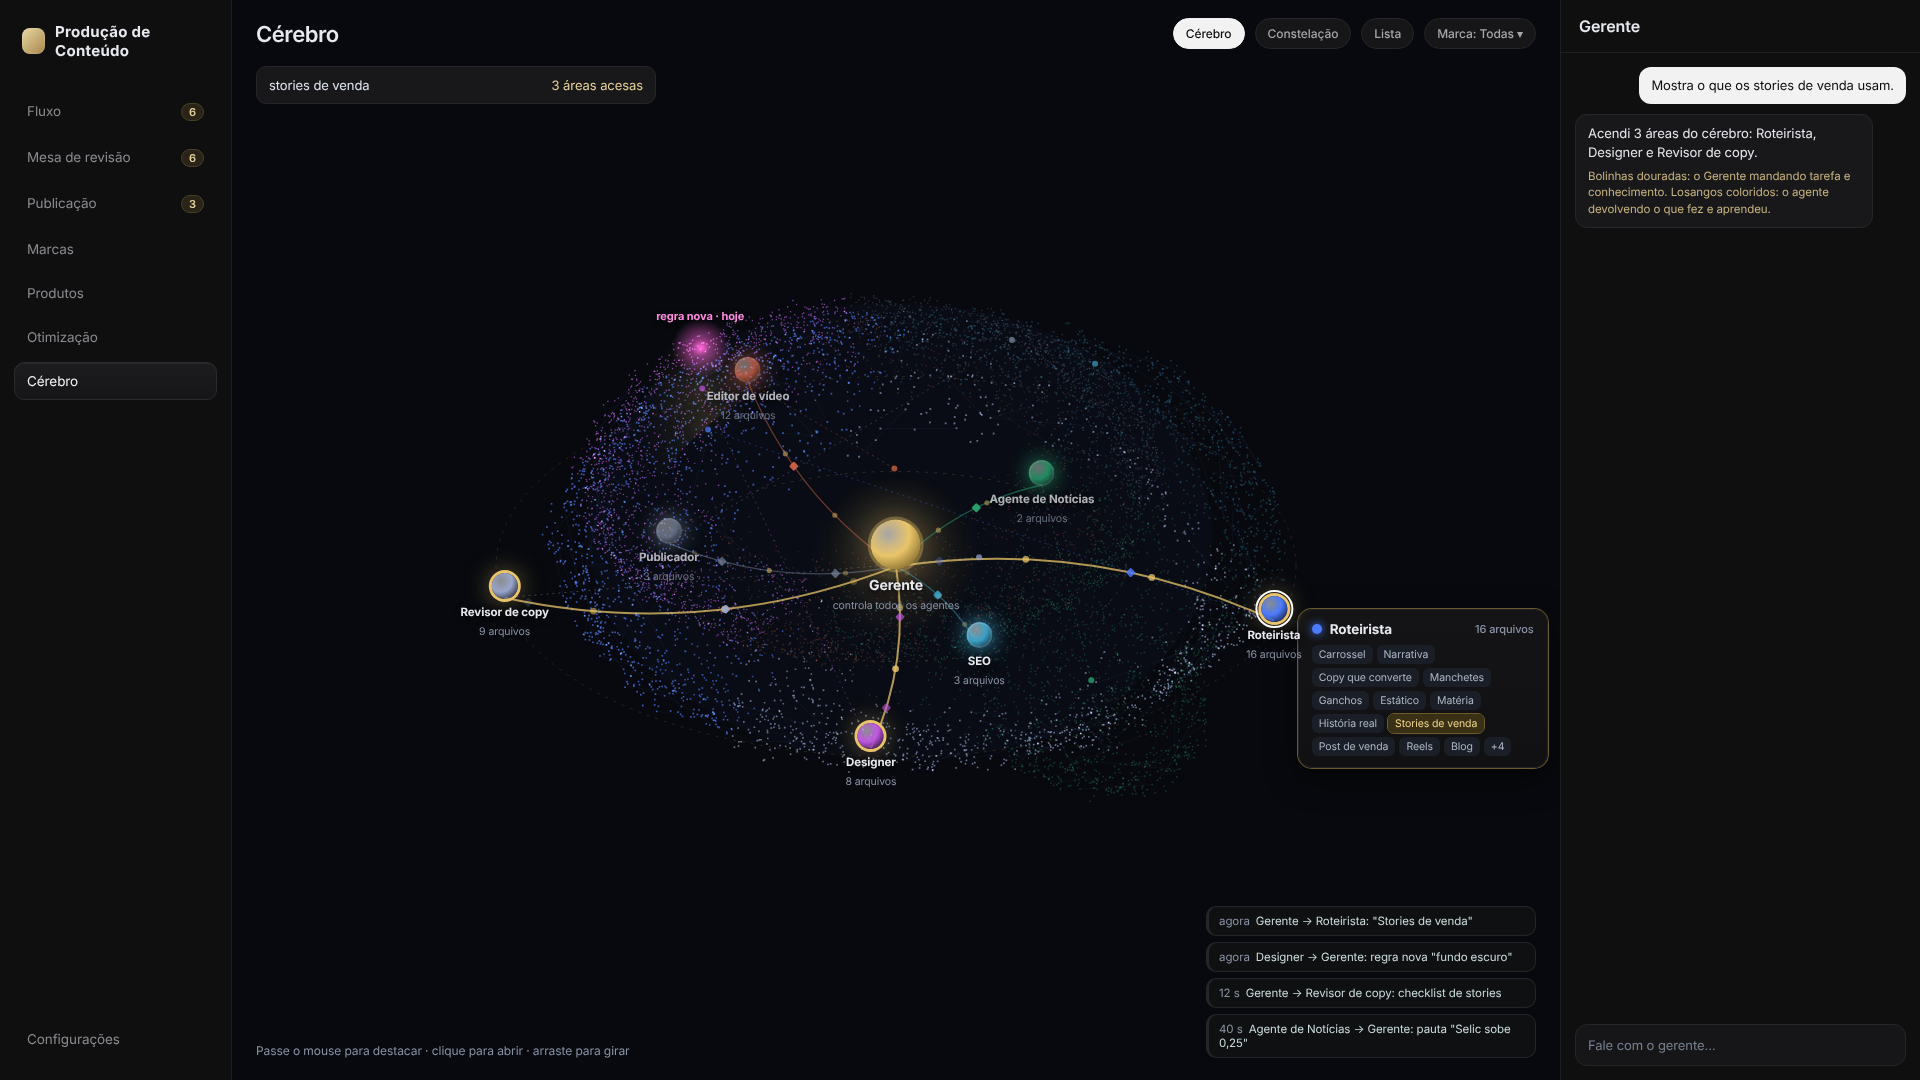
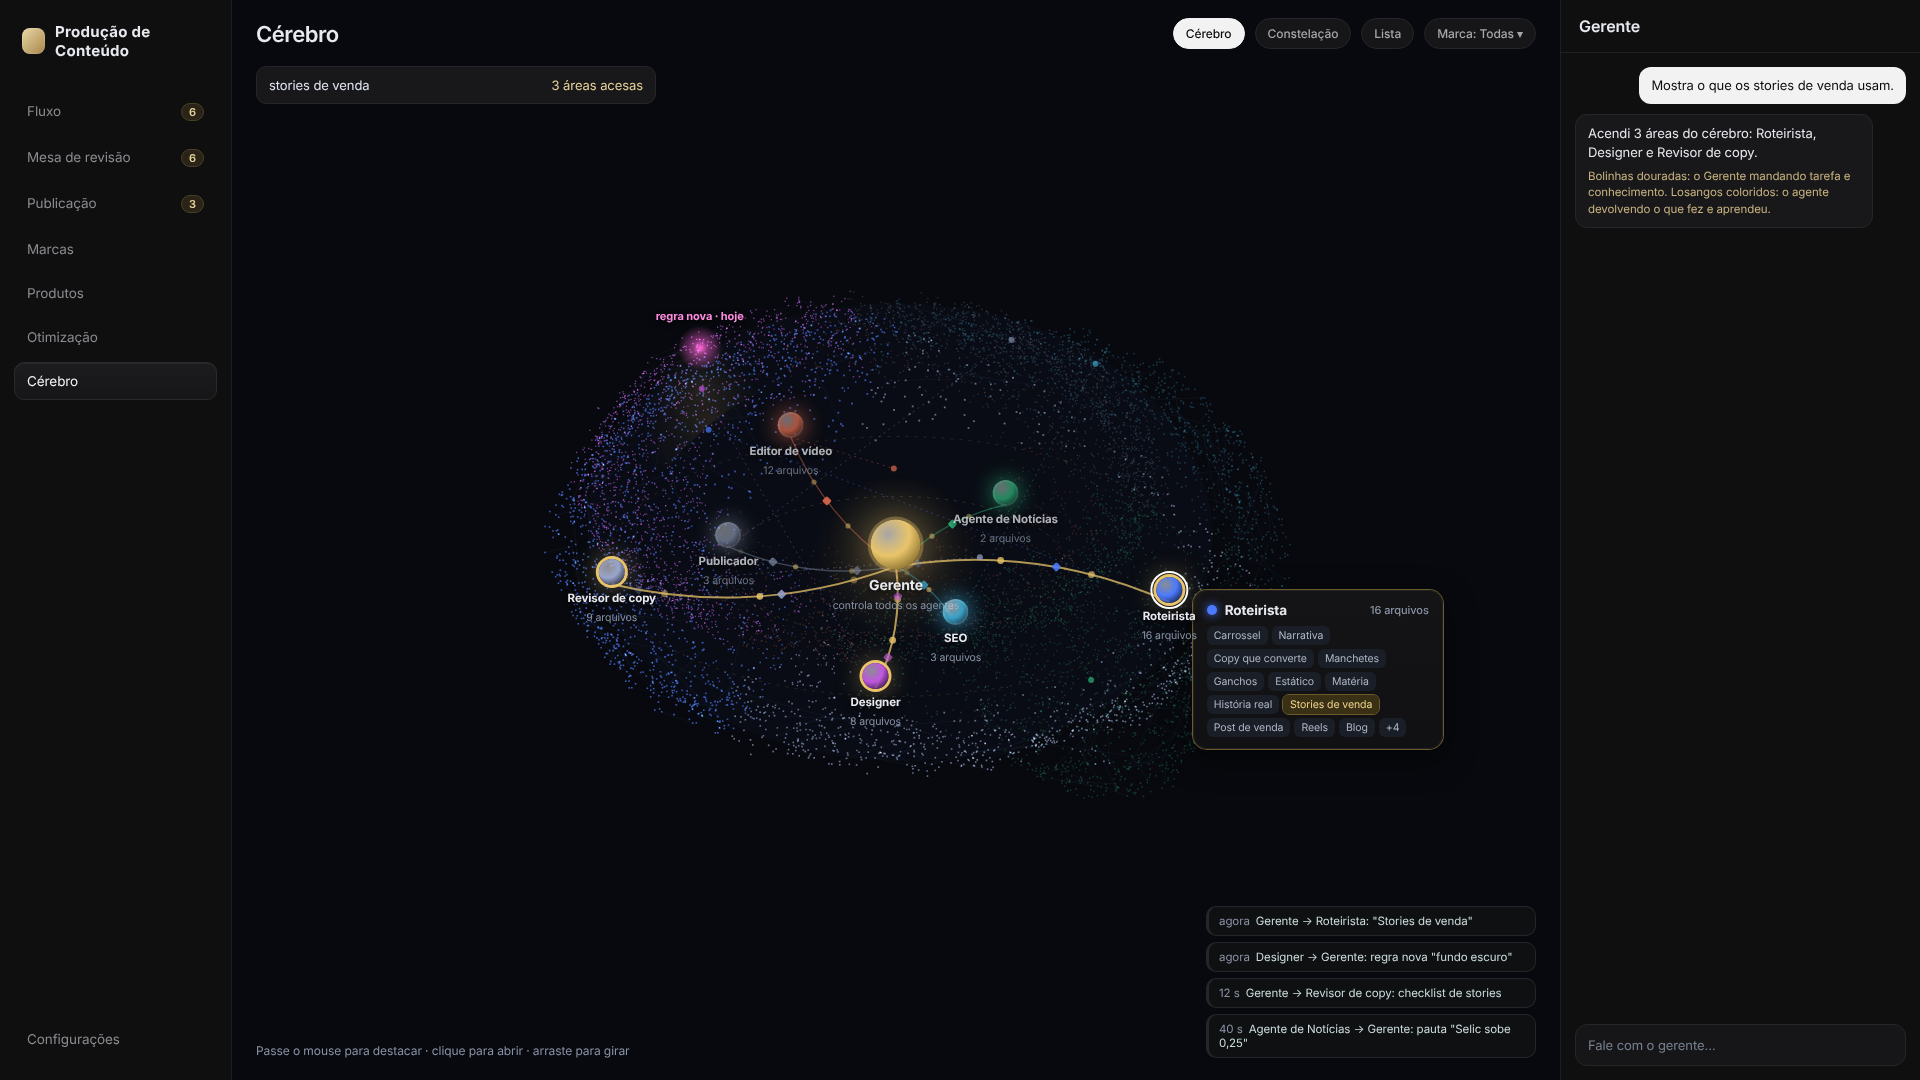
Mockup: órbitas do cérebro dentro do contorno
Claude-Session: https://claude.ai/code/session_017mkQW85rJCmU6p9tbJQqBr

Changed region(s): [[0.25, 0.275, 0.7812, 0.7333], [0.7812, 0.5806, 0.8125, 0.6111]]

diff --git a/mockup/final/10-cerebro.html b/mockup/final/10-cerebro.html
@@ -149,7 +149,7 @@ function frame(t){t/=1000;window.t=t;root.rotation.y=Math.PI/2+Math.sin(t*.15)*.
  rings.forEach(q=>{const u=(t*.6+q.o)%1;q.r.scale.setScalar(1+u*2.2);q.r.material.opacity=(1-u)*.5;q.r.lookAt(cam.position.clone().applyMatrix4(new THREE.Matrix4().copy(root.matrixWorld).invert()))});rule.scale.setScalar(1.6+Math.sin(t*5)*.7);core.material.opacity=.28+Math.sin(t*2)*.06;pm.size=.11+Math.sin(t*1.5)*.01;
  R.render(S,cam);const ORB={'Roteirista':[0,1],'Designer':[1.3,1],'Revisor de copy':[2.6,1],'Editor de vídeo':[4.0,1],'SEO':[.7,0],'Publicador':[2.8,0],'Agente de Notícias':[4.9,0]};
 let sv='';v.copy(core.position).applyMatrix4(root.matrixWorld).project(cam);const gx=(v.x+1)/2*W,gy=(1-v.y)/2*H+10;const go=document.getElementById('gorb');go.style.left=gx+'px';go.style.top=gy+'px';
-const RX=[230,400],RY=[95,190];sv+=`<ellipse cx='${gx}' cy='${gy}' rx='${RX[0]}' ry='${RY[0]}' fill='none' stroke='#e9c46a' stroke-opacity='.18' stroke-dasharray='3 6'/><ellipse cx='${gx}' cy='${gy}' rx='${RX[1]}' ry='${RY[1]}' fill='none' stroke='#e9c46a' stroke-opacity='.14' stroke-dasharray='3 6'/>`;
+const RX=[170,290],RY=[70,130];sv+=`<ellipse cx='${gx}' cy='${gy}' rx='${RX[0]}' ry='${RY[0]}' fill='none' stroke='#e9c46a' stroke-opacity='.18' stroke-dasharray='3 6'/><ellipse cx='${gx}' cy='${gy}' rx='${RX[1]}' ry='${RY[1]}' fill='none' stroke='#e9c46a' stroke-opacity='.14' stroke-dasharray='3 6'/>`;
 for(const n in ORB){const [ph,ring]=ORB[n];const a=ph+t*(ring?.06:.09);OPOS[n]=[gx+Math.cos(a)*RX[ring],gy+Math.sin(a)*RY[ring]];const o=OR[n];o.style.left=OPOS[n][0]+'px';o.style.top=OPOS[n][1]+'px';o.style.zIndex=Math.sin(a)>0?4:2;o.style.opacity=Math.sin(a)>0?1:.75}regions.forEach((r,i)=>{v.copy(ctr[i]).applyMatrix4(root.matrixWorld).project(cam);const x=(v.x+1)/2*W,y=(1-v.y)/2*H;const cx=OPOS[r.n][0],cy=OPOS[r.n][1]-8;const hot=!!HOTF[r.n];const col=hot?'#e9c46a':`rgba(${r.c.map(x=>x*255|0)},.55)`;const cc=`rgb(${r.c.map(x=>x*255|0)})`;
 sv+=`<path d='M${cx},${cy} L${x},${y}' stroke='${cc}' stroke-width='.8' stroke-dasharray='2 4' opacity='.45'/><circle cx='${x}' cy='${y}' r='3' fill='${cc}' opacity='.7'/>`;
 const mx=(cx+gx)/2+(cy-gy)*.15,my=(cy+gy)/2-(cx-gx)*.15;const P=u=>{const a=1-u;return[a*a*gx+2*a*u*mx+u*u*cx,a*a*gy+2*a*u*my+u*u*cy]};

diff --git a/mockup/v3/cerebro-solar.html b/mockup/v3/cerebro-solar.html
@@ -89,7 +89,7 @@ function frame(t){t/=1000;window.t=t;root.rotation.y=Math.PI/2+Math.sin(t*.15)*.
  rings.forEach(q=>{const u=(t*.6+q.o)%1;q.r.scale.setScalar(1+u*2.2);q.r.material.opacity=(1-u)*.5;q.r.lookAt(cam.position.clone().applyMatrix4(new THREE.Matrix4().copy(root.matrixWorld).invert()))});rule.scale.setScalar(1.6+Math.sin(t*5)*.7);core.material.opacity=.28+Math.sin(t*2)*.06;pm.size=.11+Math.sin(t*1.5)*.01;
  R.render(S,cam);const ORB={'Roteirista':[0,1],'Designer':[1.3,1],'Revisor de copy':[2.6,1],'Editor de vídeo':[4.0,1],'SEO':[.7,0],'Publicador':[2.8,0],'Agente de Notícias':[4.9,0]};
 let sv='';v.copy(core.position).applyMatrix4(root.matrixWorld).project(cam);const gx=(v.x+1)/2*W,gy=(1-v.y)/2*H+10;const go=document.getElementById('gorb');go.style.left=gx+'px';go.style.top=gy+'px';
-const RX=[230,400],RY=[95,190];sv+=`<ellipse cx='${gx}' cy='${gy}' rx='${RX[0]}' ry='${RY[0]}' fill='none' stroke='#e9c46a' stroke-opacity='.18' stroke-dasharray='3 6'/><ellipse cx='${gx}' cy='${gy}' rx='${RX[1]}' ry='${RY[1]}' fill='none' stroke='#e9c46a' stroke-opacity='.14' stroke-dasharray='3 6'/>`;
+const RX=[170,290],RY=[70,130];sv+=`<ellipse cx='${gx}' cy='${gy}' rx='${RX[0]}' ry='${RY[0]}' fill='none' stroke='#e9c46a' stroke-opacity='.18' stroke-dasharray='3 6'/><ellipse cx='${gx}' cy='${gy}' rx='${RX[1]}' ry='${RY[1]}' fill='none' stroke='#e9c46a' stroke-opacity='.14' stroke-dasharray='3 6'/>`;
 for(const n in ORB){const [ph,ring]=ORB[n];const a=ph+t*(ring?.06:.09);OPOS[n]=[gx+Math.cos(a)*RX[ring],gy+Math.sin(a)*RY[ring]];const o=OR[n];o.style.left=OPOS[n][0]+'px';o.style.top=OPOS[n][1]+'px';o.style.zIndex=Math.sin(a)>0?4:2;o.style.opacity=Math.sin(a)>0?1:.75}regions.forEach((r,i)=>{v.copy(ctr[i]).applyMatrix4(root.matrixWorld).project(cam);const x=(v.x+1)/2*W,y=(1-v.y)/2*H;const cx=OPOS[r.n][0],cy=OPOS[r.n][1]-8;const hot=!!HOTF[r.n];const col=hot?'#e9c46a':`rgba(${r.c.map(x=>x*255|0)},.55)`;const cc=`rgb(${r.c.map(x=>x*255|0)})`;
 sv+=`<path d='M${cx},${cy} L${x},${y}' stroke='${cc}' stroke-width='.8' stroke-dasharray='2 4' opacity='.45'/><circle cx='${x}' cy='${y}' r='3' fill='${cc}' opacity='.7'/>`;
 const mx=(cx+gx)/2+(cy-gy)*.15,my=(cy+gy)/2-(cx-gx)*.15;const P=u=>{const a=1-u;return[a*a*gx+2*a*u*mx+u*u*cx,a*a*gy+2*a*u*my+u*u*cy]};

diff --git a/mockup/final/02-escritorio.html b/mockup/final/02-escritorio.html
@@ -74,7 +74,7 @@ div[style*="width:300px;background:#1a202b"]{display:none!important}
 <div class="feed" id="feed"></div>
 <div class="hud"><div><b>6</b>trabalhando</div><div><b style="color:#ff6b6b">1</b>parado</div><div><b>142</b>entregas no mês</div></div>
 <div class="you"><b>Esperando você: 6</b><div>Moldura de preço · Efeito isca · Atlas Hosting · +3</div><div style="color:#e9d29a;margin-top:8px">Abrir Mesa de revisão ›</div></div>
-<div id="labs"></div><div id="tvwrap" style="position:absolute;left:0;top:0;width:1280px;height:720px;transform-origin:0 0;z-index:1;pointer-events:none;overflow:hidden;background:#000"><img src="../v3/yt-thumb.jpg" style="width:1280px;height:720px;object-fit:cover"><div style="position:absolute;left:30px;top:26px;background:#d63a3a;color:#fff;font:700 30px Inter,Arial;padding:6px 16px;border-radius:6px">AO VIVO</div></div></div>
+<div id="labs"></div><div id="tvwrap" style="position:absolute;left:0;top:0;width:1280px;height:720px;transform-origin:0 0;z-index:1;pointer-events:none;overflow:hidden;background:#000"><iframe id="yt" width="1280" height="720" style="border:0;width:1280px;height:720px;transform:scale(1.35);transform-origin:center" src="https://www.youtube.com/embed/UQh1nLGZ24U?autoplay=1&mute=1&controls=0&loop=1&playlist=UQh1nLGZ24U&modestbranding=1&playsinline=1&rel=0&start=30" allow="autoplay; encrypted-media"></iframe></div></div>
 <div class="chat"><div class="ch">Gerente</div><div class="msgs"><div class="m u">Como tá o time agora?</div><div class="m g">6 trabalhando, o Editor de vídeo parado (precisa de login) e o Publicador esperando o horário. O Roteirista acabou de entregar "Delivery e comissão" para o Revisor.</div></div><div class="in">Fale com o gerente…</div></div>
 <script src="../v3/three.min.js"></script><script>
 const cv=document.getElementById('c'),W=cv.parentElement.clientWidth,H=1080;

diff --git a/mockup/final/05-editor-video.html b/mockup/final/05-editor-video.html
@@ -73,7 +73,7 @@ div[style*="width:300px;background:#1a202b"]{display:none!important}
 .lv,.feed div,.hud div,.tick div{background:#111113e0!important;border-color:#26262a!important}
 .you{background:#16140ee6!important;border-color:#3a3220!important}
 .xp u{background:linear-gradient(90deg,#a8864a,#e9d8a6)!important}
-</style></head><body><iframe src="01-fluxo.html"></iframe><div class="mo">
+</style></head><body><iframe src="../v2/fluxo.html"></iframe><div class="mo">
 <div class="hd"><h2>Efeito isca</h2><span>Marketing Raiz · Reels educativo · voz de IA · 0:50 · Editor de vídeo, há 20 min</span><div class="steps"><i class="ok">Roteiro</i><i class="ok">Revisor de copy</i><i class="ok">Aprovado</i><i class="ok">Edição</i><i class="now">Sua aprovação</i><i>Postagem</i><i>Finalizado</i></div><span class="x">✕</span></div>
 <div class="ask"><div>Pedir ajuste ao gerente: "a música está alta na parte da explicação, abaixa e refaz a legenda do final"…</div><span class="btn bl">Mandar ajustar</span></div>
 <div class="body"><div class="pl"><div class="ph"><div class="cap">Você não escolhe pelo preço. Você escolhe pela <em>comparação</em>.</div><div class="wm">MARKETING RAIZ</div></div><div class="ctr"><span>⏮</span><b>▶</b><span>⏭</span><span>0:18 / 0:50</span><span>1080 × 1920</span></div></div>

diff --git a/mockup/final/04-editor-arte.html b/mockup/final/04-editor-arte.html
@@ -73,7 +73,7 @@ div[style*="width:300px;background:#1a202b"]{display:none!important}
 .lv,.feed div,.hud div,.tick div{background:#111113e0!important;border-color:#26262a!important}
 .you{background:#16140ee6!important;border-color:#3a3220!important}
 .xp u{background:linear-gradient(90deg,#a8864a,#e9d8a6)!important}
-</style></head><body><iframe src="01-fluxo.html"></iframe><div class="mo">
+</style></head><body><iframe src="../v2/fluxo.html"></iframe><div class="mo">
 <div class="hd"><h2>Moldura de preço</h2><span>Central do Marketing · Carrossel educativo · 9 slides · Designer, há 6 min</span><div class="steps"><i class="ok">Roteiro</i><i class="ok">Revisor de copy</i><i class="ok">Aprovado</i><i class="ok">Arte</i><i class="now">Sua aprovação</i><i>Postagem</i><i>Finalizado</i></div><span class="x">✕</span></div>
 <div class="ask"><div>Pedir ajuste ao gerente: "no slide 7, destaca a resposta da marca forte em amarelo"…</div><span class="btn bl">Mandar ajustar</span></div>
 <div class="body">
